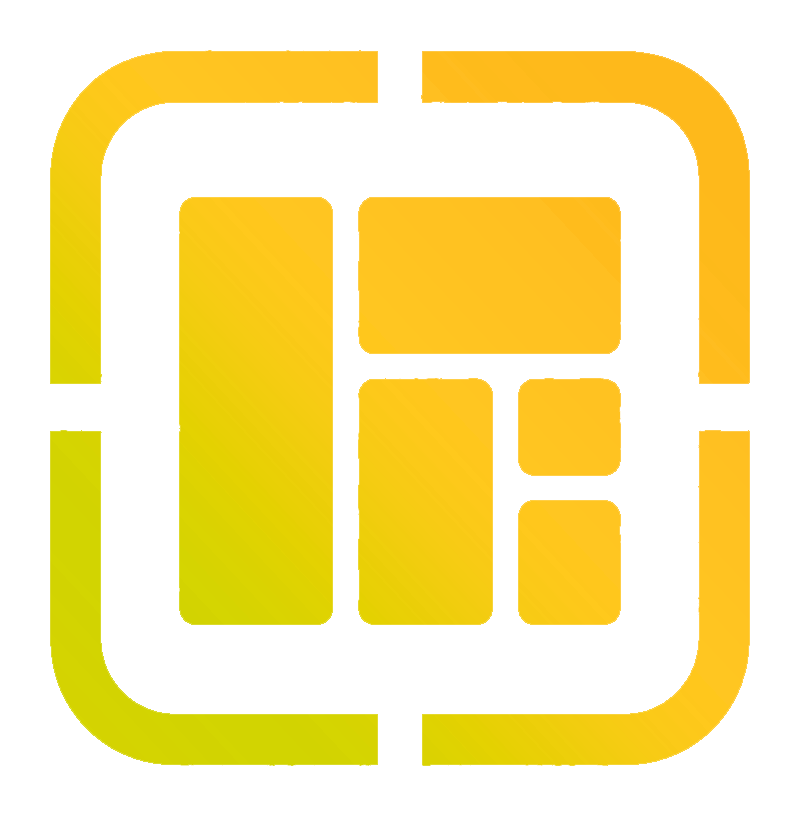
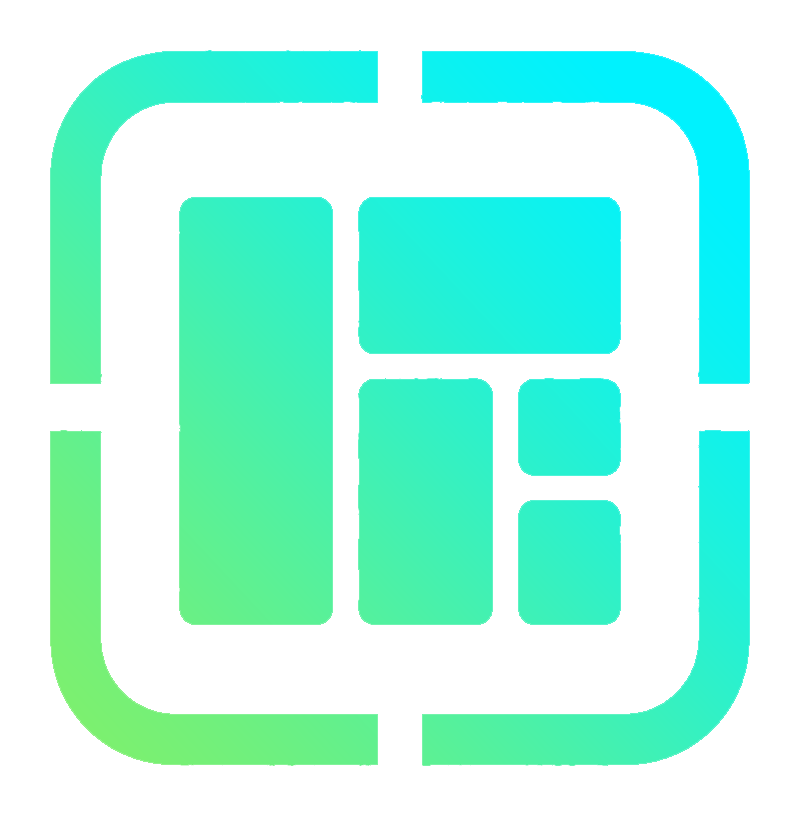
Enhance action button styles with glow effects and improved hover animations

diff --git a/extension/styles.css b/extension/styles.css
@@ -505,11 +505,17 @@ select {
   grid-template-columns: minmax(0, 1fr) 28px;
   gap: 0;
   align-items: stretch;
-  overflow: hidden;
+  overflow: visible;
   border-radius: 14px;
   isolation: isolate;
   background-size: 140% 140%;
   background-position: 0% 50%;
+  --action-glow-color: rgba(88, 213, 255, 0.8);
+  --action-glow-color-2: rgba(124, 255, 130, 0.5);
+  --action-glow-core: rgba(255, 255, 255, 0.92);
+  --action-glow-top: -10px;
+  --action-glow-height: 5px;
+  --action-glow-blur: 15px;
   box-shadow:
     inset 0 1px 0 rgba(255, 255, 255, 0.18),
     inset 0 -1px 0 rgba(0, 0, 0, 0.28),
@@ -517,7 +523,34 @@ select {
   transition: filter 180ms ease, box-shadow 180ms ease, transform 180ms ease;
 }
 
+.nest-action::before,
+.export-action::before {
+  content: "";
+  position: absolute;
+  left: 9%;
+  right: 9%;
+  top: var(--action-glow-top);
+  height: var(--action-glow-height);
+  border-radius: 999px;
+  background:
+    radial-gradient(ellipse at center, var(--action-glow-core) 0%, transparent 58%),
+    linear-gradient(90deg, transparent 0%, var(--action-glow-color) 24%, var(--action-glow-color-2) 58%, var(--action-glow-color) 82%, transparent 100%);
+  filter: blur(var(--action-glow-blur));
+  opacity: 0;
+  transform: translateY(5px) scaleX(0.62);
+  transform-origin: center;
+  pointer-events: none;
+  z-index: 0;
+  transition:
+    opacity 180ms ease,
+    transform 220ms cubic-bezier(0.22, 1, 0.36, 1),
+    filter 180ms ease;
+}
+
 .nest-action {
+  --action-glow-color: rgba(41, 196, 255, 0.88);
+  --action-glow-color-2: rgba(9, 240, 162, 0.72);
+  --action-glow-core: rgba(224, 255, 250, 0.96);
   background-image:
     radial-gradient(circle at 18% 12%, rgba(255, 255, 255, 0.34), transparent 17%),
     linear-gradient(120deg, #09f0a2 0%, #29c4ff 45%, #8d6dff 100%);
@@ -529,6 +562,9 @@ select {
 }
 
 .export-action {
+  --action-glow-color: rgba(255, 196, 86, 0.9);
+  --action-glow-color-2: rgba(40, 214, 129, 0.72);
+  --action-glow-core: rgba(255, 250, 215, 0.96);
   grid-template-columns: minmax(0, 1fr) 28px 28px;
   background-image:
     radial-gradient(circle at 18% 12%, rgba(255, 255, 255, 0.32), transparent 17%),
@@ -632,6 +668,8 @@ button {
 .nest-action > .icon-button,
 .export-action > #btn-export,
 .export-action > .icon-button {
+  position: relative;
+  z-index: 1;
   min-width: 0;
   border: none;
   border-radius: 0;
@@ -667,7 +705,17 @@ button {
 .nest-action:hover,
 .export-action:hover {
   filter: saturate(1.1) brightness(1.04);
-  transform: translateY(-5px) scale(1.02);
+  transform: translateY(-3px) scale(1.02);
+  box-shadow:
+    inset 0 1px 0 rgba(255, 255, 255, 0.18),
+    inset 0 -1px 0 rgba(0, 0, 0, 0.28),
+    0 13px 27px rgba(0, 0, 0, 0.34);
+}
+
+.nest-action:hover::before,
+.export-action:hover::before {
+  opacity: 0.95;
+  transform: translateY(0) scaleX(1);
 }
 
 .nest-action.is-busy,
@@ -678,6 +726,7 @@ button {
     0 0 24px rgba(88, 213, 255, 0.22),
     0 12px 28px rgba(0, 0, 0, 0.36);
   animation: action-busy-breathe 1.7s ease-in-out infinite;
+  overflow: visible;
 }
 
 #btn-run[aria-busy="true"],